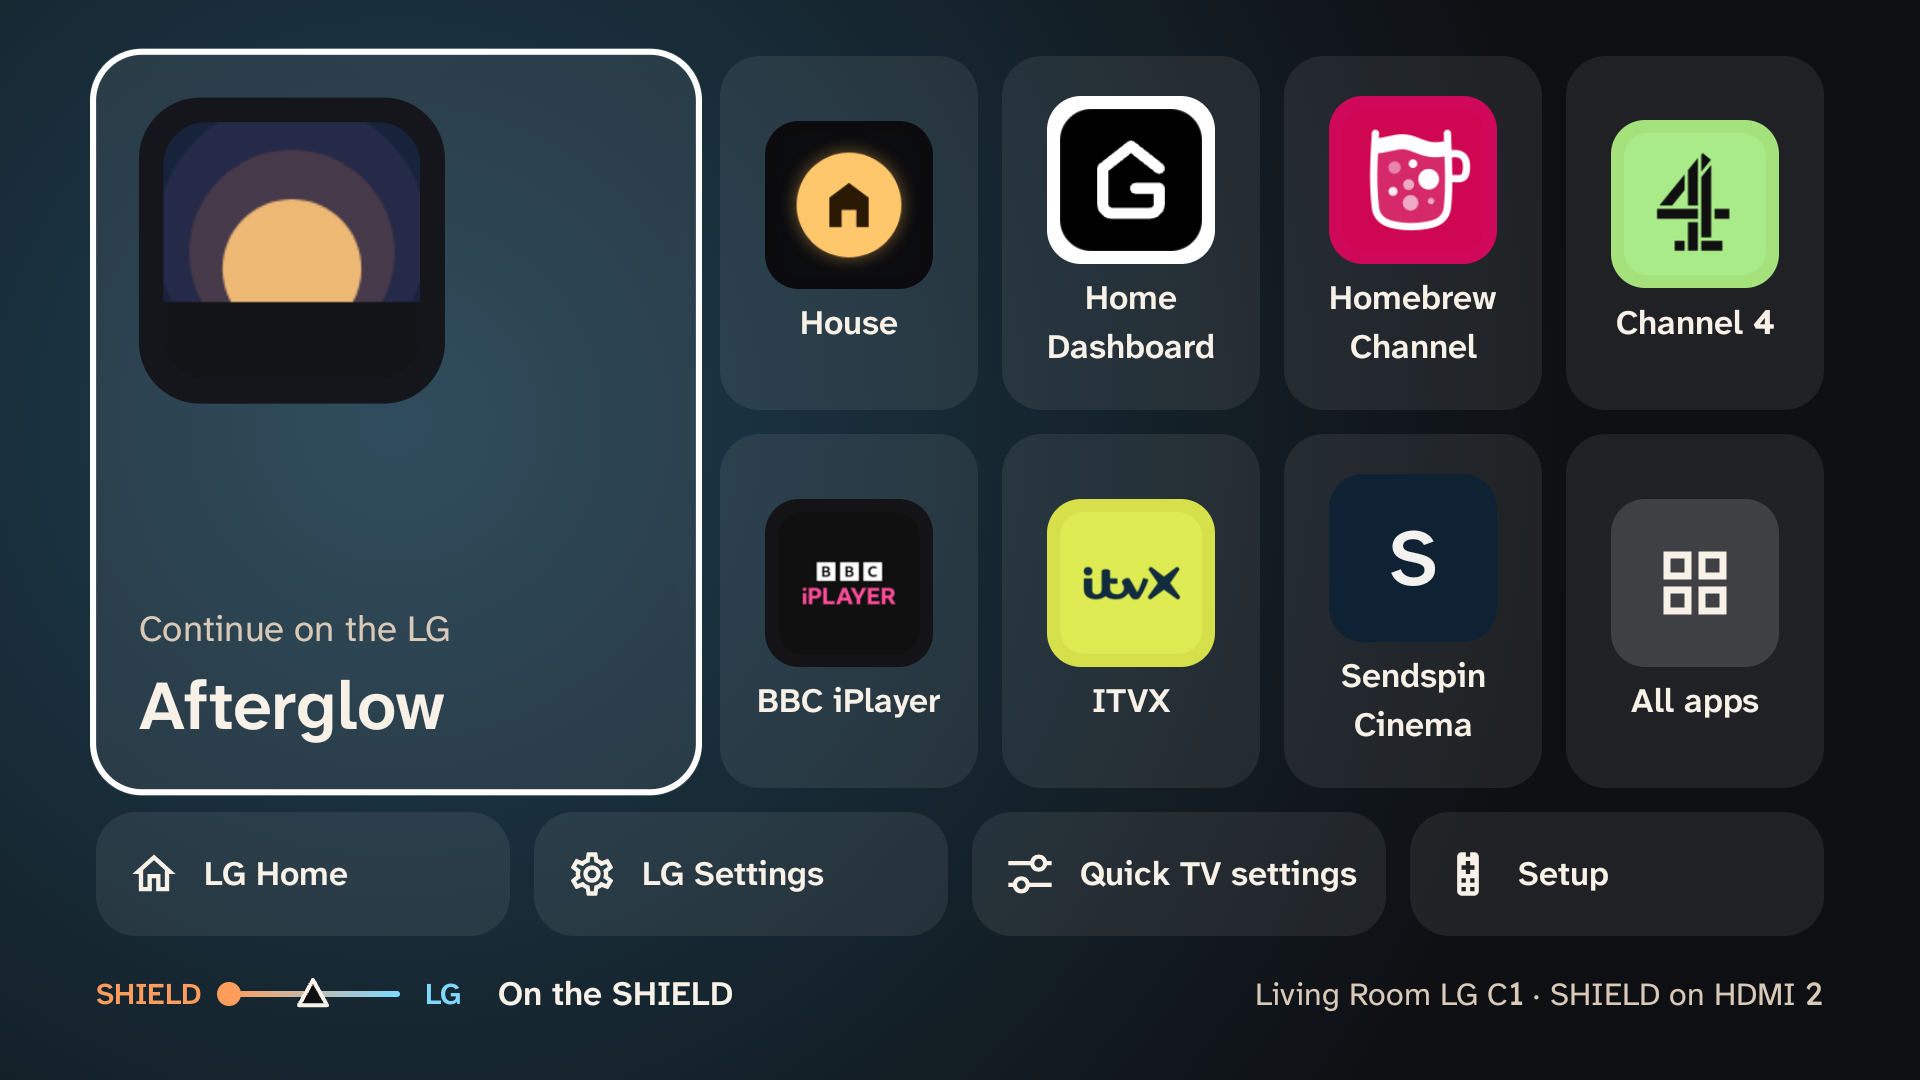
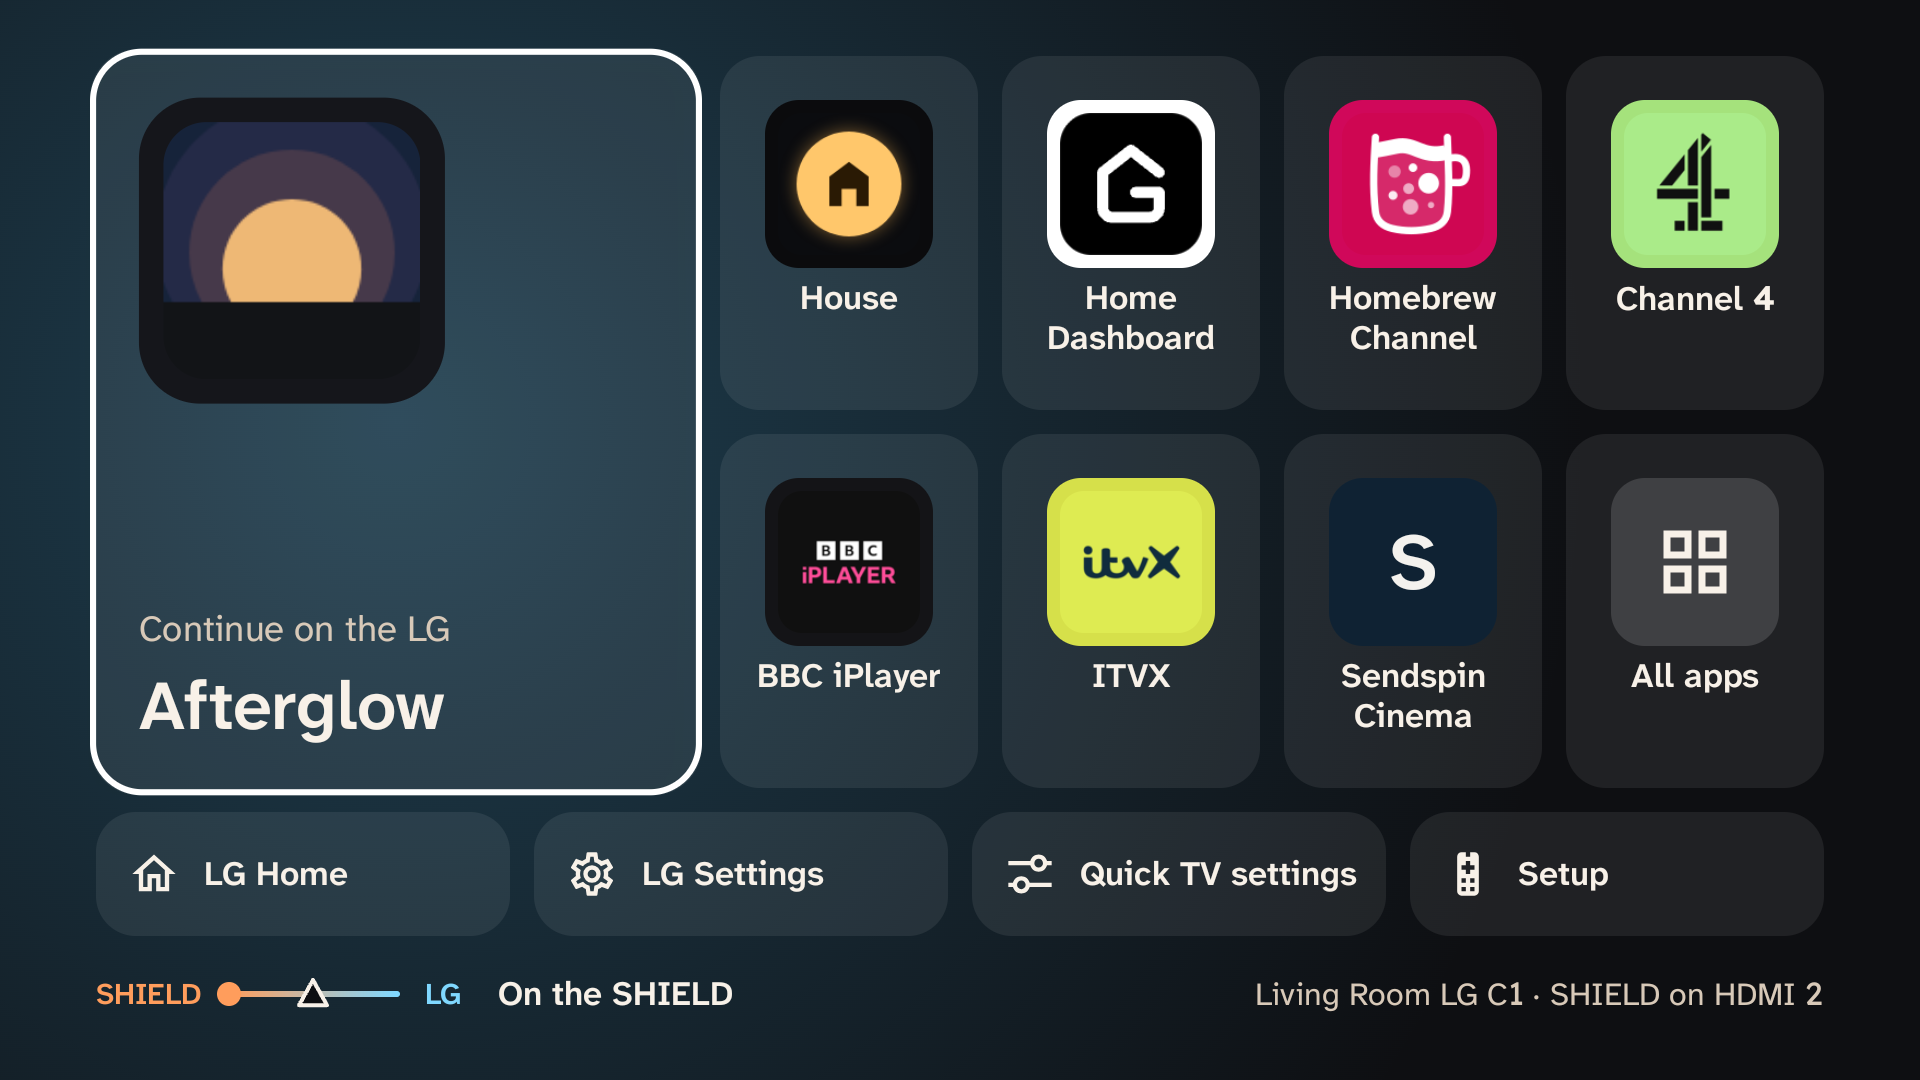
Docs: README images and changelog for the redesign

diff --git a/CHANGELOG.md b/CHANGELOG.md
@@ -2,13 +2,21 @@
 
 ## Unreleased
 
-- The launcher fits one screen: a big Continue tile, a grid of favourites and recent apps ending in All apps, and a
-  dock with LG Home, LG Settings, Quick TV settings and Setup. Favourites past the grid's seven places stay in All apps.
+- The launcher fits one screen: a big Continue tile, a grid of favourites, recent apps and then the TV's others ending
+  in All apps, and a dock with LG Home, LG Settings, Quick TV settings and Setup. Favourites past the grid's seven
+  places stay in All apps.
+- A failure gets the launcher's fix-this row, with a Check action, and that row is coloured by how serious it is. Allow
+  opens the permission page directly.
+- All apps shows four whole rows of six, and names wrap rather than get cut.
+- The box's input reads its short name whatever the LG calls that port, and a long input name no longer cuts the row's
+  label in Quick TV settings.
 - A beam on the launcher's status line shows who has the remote, the box or the LG, beside the same thing in words.
 - Themes in Setup: Refract (new default; a soft light follows the focused tile in that app's colour), OLED Night, Dusk
   and Daylight. Setup → Dusk after sunset switches to Dusk when Home Assistant's sun has set.
 - Quick TV settings is a sheet over the launcher, with all seven settings on screen.
 - Setup lists its rows in two columns, so they all show at once. Pages that do outgrow the screen fade at the edge.
+- Setup's red adb paragraph is gone: OK on Stay connected in sleep shows the command when you want it.
+- "Remote follows the TV" and "Choose your TV" name things more plainly, and Monitoring reads On or Off.
 - App tiles keep the app's art on its own colour and the name underneath, so a short tile's initial no longer runs
   into its name.
 

diff --git a/README.md b/README.md
@@ -157,8 +157,8 @@ is written until you turn it on. The Home Assistant user needs no extra rights f
   remote's own voice button).
 - **Going back to the box.** Hold Back for 0.8 s, or press Home.
 - **The launcher.** OK on a tile opens it on the LG, and the remote follows. Favourites are chosen in Setup →
-  Favourites, in any order; the grid shows the first seven apps, favourites before recent ones, and the rest stay in
-  All apps. The line at the foot says where the remote is, as a beam from the box to the LG and in words: "On the LG ·
+  Favourites, in any order; the grid shows the first seven apps, favourites first, then recent ones, then the TV's
+  others, and the rest stay in All apps. The line at the foot says where the remote is, as a beam from the box to the LG and in words: "On the LG ·
   BBC iPlayer", "On the SHIELD" (the box's own name, from Android's settings), "The TV is off", or the step that's
   failing.
 - **Quick TV settings.** Left and Right step a value; it's sent after half a second, or when you leave the row. The
